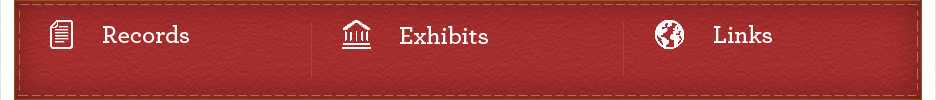
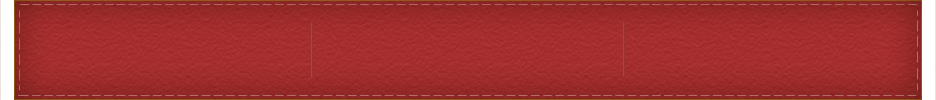
New formatting for main page to use text on browse bar rather than images

Changed region(s): [[0.031, 0.18, 0.2169, 0.51], [0.6816, 0.21, 0.8365, 0.48], [0.3408, 0.21, 0.5267, 0.51]]

diff --git a/theme/stylesheets/screen/core.css b/theme/stylesheets/screen/core.css
@@ -2678,7 +2678,8 @@ body.cw-home #community ul #youtube-community h3 {
 	width: 120px;
 }
 
-body.cw-home #community ul li a:link {
+body.cw-home #community ul li a:link,
+body.cw-home #community ul li a:visited {
 	color: #FFFFFF;
 }
 
@@ -2687,11 +2688,6 @@ body.cw-home #community ul li a:active {
 	color: #FFFFFF;
 	text-decoration: underline;
 }
-
-body.cw-home #community ul li a:visited {
-	color: #FFFFFF;
-}
-
 
 body.cw-home li {
 	list-style: none outside none;
@@ -2893,9 +2889,9 @@ body.cw-home #events ul li a:visited {
 	color: #000000;
 }
 
-/* ---- HOME PAGE CIVIL WAR BROWSE BANNER ---- */
+/* ---- CIVIL WAR BROWSE ELEMENTS ---- */
 
-body.cw-home #browse {
+body.civilwar #browse {
 	width: 936px;
 	float:left;
 	background: url(../../images/cw-home-browse-box.png) right no-repeat;
@@ -2903,58 +2899,64 @@ body.cw-home #browse {
 	overflow: visible;
 }
 
-body.cw-home #browse ul {
+body.civilwar #browse ul {
 	margin: 0 0 0 0;
 	padding: 0 0 0 0;
 }
 
-body.cw-home #browse li {
-	width: 312px;
+body.civilwar #browse li {
+	width: 270px;
 	min-height: 70px;
 	float: left;
-	margin: 25px 0 25px 0;
-	padding: 12px 0 12px 0;
+	padding: 12px 15px 12px 27px;
 }
 
-body.cw-home #browse li.records p {
+body.civilwar #browse li.records h3 {
+	background: url(../../images/cw-browse-title-records.png) left no-repeat;
+	height: 35px;
+	width: 200px;
+	margin-left: 14px;
+}
+
+body.civilwar #browse li.exhibits h3 {
+	background: url(../../images/cw-browse-title-exhibits.png) left no-repeat;
+	height: 35px;
+	width: 200px;
+}
+
+body.civilwar #browse li.links h3 {
+	background: url(../../images/cw-browse-title-links.png) left no-repeat;
+	height: 35px;
+	width: 200px;
+}
+
+body.civilwar #browse h3 .noshow {
+	display: none;
+}
+
+body.civilwar #browse li.records p {
 	font-size: 1em;
 	line-height: 150%;
 	color: #D9D9D9;
-	margin: 45px 5px 0 50px;
+	margin-left: 14px;
 }
 
-body.cw-home #browse li.exhibits p {
+body.civilwar #browse li.exhibits p,
+body.civilwar #browse li.links p {
 	font-size: 1em;
 	line-height: 150%;
 	color: #D9D9D9;
-	margin: 45px 5px 0 30px;
 }
-	
-body.cw-home #browse li.links p {
-	font-size: 1em;
-	line-height: 150%;
+
+body.civilwar #browse ul li a:link,
+body.civilwar #browse ul li a:visited {
 	color: #D9D9D9;
-	margin: 45px 20px 0 30px;
 }
 
-body.cw-home #browse li p a {
-	padding: 0 0 12px 0; 
-	color:#FFFFFF; 
-	text-decoration:none;
-}
-
-body.cw-home #browse li.records p a:hover,
-body.cw-home #browse li.exhibits p a:hover,
-body.cw-home #browse li.links p a:hover; {
-	text-decoration:underline;
-	color: #888888;
-}
-
-body.cw-home #browse li.records p a:active,
-body.cw-home #browse li.exhibits p a:active,
-body.cw-home #browse li.links p a:active; {
-	text-decoration:underline;
-	color: #888888;
+body.civilwar #browse ul li a:hover,
+body.civilwar #browse ul li a:active {
+	color: #D9D9D9;
+	text-decoration: underline;
 }
 
 /* ---- EVENTS PAGE CIVIL WAR STRUCTURE ---- */
@@ -2965,14 +2967,6 @@ body.cw-events #content {
 	margin-top: 65px;
 	z-index: 3;
 	float: left;
-}
-
-body.cw-events #sidebar {
-	width: 311px;
-	margin-top: 65px;
-	position: relative;
-	float: right;
-	z-index: 3;
 }
 
 body.cw-events #browse {
@@ -2986,11 +2980,39 @@ body.cw-events #browse {
 
 /* ---- EVENTS PAGE CIVIL WAR CONTENT ELEMENTS ---- */
 
-body.cw-events #content #title {
+body.cw-events #content #events-title {
 	width: 623px;
 	height: 125px;
 	float: left;
 	background: url(../../images/cw-events-title.png) right no-repeat;
+}
+
+body.cw-events #content #records-title {
+	width: 623px;
+	height: 125px;
+	float: left;
+	background: url(../../images/cw-records-title.png) right no-repeat;
+}
+
+body.cw-events #content #exhibits-title {
+	width: 623px;
+	height: 125px;
+	float: left;
+	background: url(../../images/cw-exhibits-title.png) right no-repeat;
+}
+
+body.cw-events #content #links-title {
+	width: 623px;
+	height: 125px;
+	float: left;
+	background: url(../../images/cw-links-title.png) right no-repeat;
+}
+
+body.cw-events #content #blog-title {
+	width: 623px;
+	height: 125px;
+	float: left;
+	background: url(../../images/cw-blog-title.png) right no-repeat;
 }
 
 body.cw-events #content #title h3 .noshow {
@@ -3019,6 +3041,14 @@ body.cw-events #content #results p.description {
 	color: #666666;
 	line-height: 1.25em;
 	margin-bottom: 1.25em;
+}
+
+body.cw-events #content #results p.date {
+	font-weight: bold;
+}
+
+body.cw-events #content #results p.url {
+	font-weight: bold;
 }
 
 body.cw-events #content #results #details ul  {
@@ -3054,12 +3084,6 @@ body.cw-events #content #results #details li.location {
 /* ---- CIVIL WAR SIDEBAR ELEMENTS ---- */
 
 body.civilwar #cw-sidebar {
-	width: 311px;
-	margin-top: 65px;
-	position: relative;
-	float: right;
-	z-index: 3;
-} {
 	width: 311px;
 	margin-top: 65px;
 	position: relative;

diff --git a/theme/civil-war-page.php b/theme/civil-war-page.php
@@ -35,10 +35,10 @@ include('header.php');
 <li id="calendar-community">
 						<ul>
 							<li>
-								<a href="/events"><h3><span class="noshow">Events</span></h3></a>
+								<a href="/civil-war-events"><h3><span class="noshow">Events</span></h3></a>
 							</li>
 							<li>
-								<a href="/events">Search for and share coming events celebrating Michigan's role in the Civil War.</a></p>
+								<a href="/civil-war-events">Search for and share coming events celebrating Michigan's role in the Civil War.</a></p>
 							</li>
 						</ul>
 					</li>
@@ -108,7 +108,7 @@ include('header.php');
 		</ul>
 	</div>
 	<div id="events">
-		<a href="/events"><h3><span class="noshow">Upcoming Events</span></h3></a>
+		<a href="/civil-war-events"><h3><span class="noshow">Upcoming Events</span></h3></a>
 		<ul>
     <?php
         // $term = get_term_by('slug', get_query_var('term'), get_query_var('taxonomy'));
@@ -128,7 +128,7 @@ include('header.php');
     <?php get_template_part('loop-events');  // Loop template for events (loop-events.php) ?>
     <?php  wp_reset_query(); ?>
 
-			<li class="end"><a href="#">
+			<li class="end"><a href="/civil-war-events">
 			See all events<span class="yellow-arrow"></span></a>
 			</li>
 			</ul>
@@ -137,16 +137,16 @@ include('header.php');
 	<div id="browse">
 		<ul>
 			<li class="records">
-				<a href="#">
-				<p>Find original letters, photographs, and military records from the Civil War.</p></a>
+				<a href="/records"><h3><span class="noshow">Records</span></h3></a>
+				<p><a href="/records">Find original letters, photographs, and military records from the Civil War.</a></p>
 			</li>
 			<li class="exhibits">
-				<a href="#">
-				<p>Look for upcoming Civil War exhibits and demonstrations around Michigan.</p></a>
+				<a href="/exhibits"><h3><span class="noshow">Exhibits</span></h3></a>
+				<p><a href="/exhibits">Look for coming Civil War exhibits and demonstrations around Michigan.</a></p>
 			</li>    	
 			<li class="links">
-				<a href="#">
-				<p>Connect to Civil War websites of community partners from around the State.</p></a>
+				<a href="/links"><h3><span class="noshow">Links</span></h3></a>
+				<p><a href="/links">Connect to Civil War websites of community partners from around the State.</a></p>
 			</li>
 		</ul>
 	</div>
